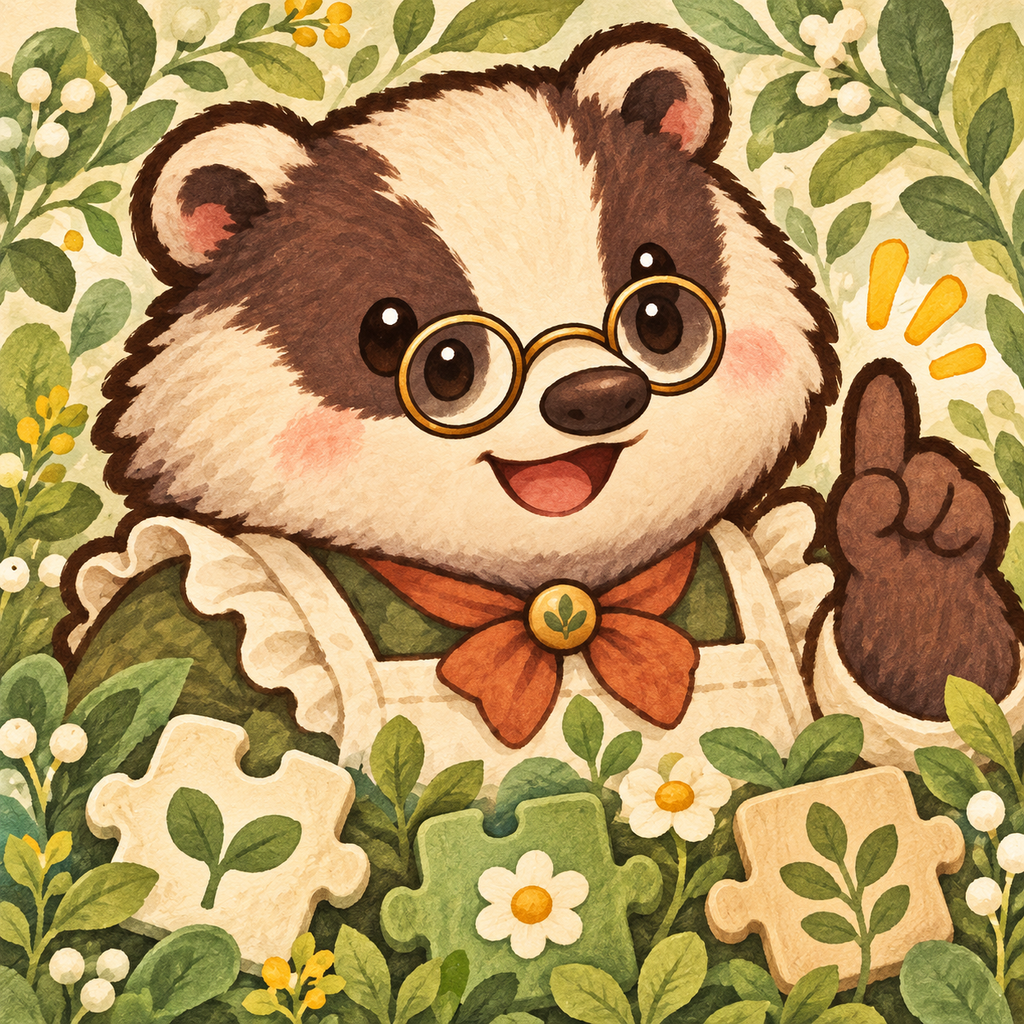
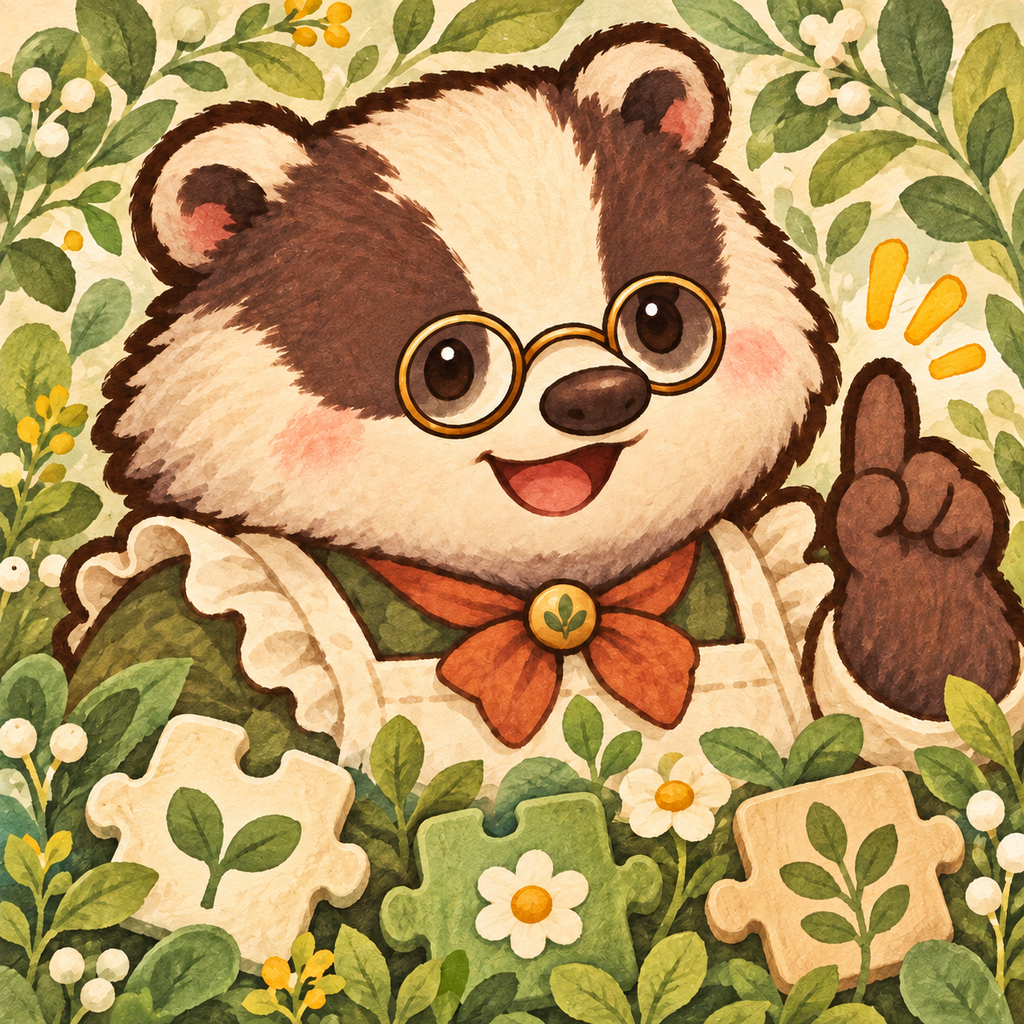
Fix Tuckaway Garden badger eyes and screenshots

diff --git a/tuckaway-garden/index.html b/tuckaway-garden/index.html
@@ -126,7 +126,7 @@ a:focus-visible{outline:3px solid var(--accent);outline-offset:4px}
 <a class="skip" href="#main">Skip to content / 본문으로 / 本文へ / 跳至內容</a>
 <main id="main">
 <p class="site"><a href="https://hootchi.github.io/" rel="noreferrer">← Atto Studio</a></p>
-<header class="hero" id="top"><img class="banner" src="img/banner.png" width="1536" height="1024" alt="숲속 하숙집 뒤뜰의 정원 · The garden behind the forest boarding house"><div class="title"><img src="img/icon.png" width="1024" height="1024" alt=""><h1>쉿! 숲속 정원<span class="en" lang="en">Tuckaway Garden: Nonogram</span></h1></div><p class="pitch">숫자를 따라 그림 하나씩, 작은 정원을 가꿔요. 목숨 제한 없이 즐기는 논리 퍼즐이에요.</p><p class="pitch" lang="en">A little picture, a growing garden. Logic puzzles without lives or energy limits.</p><div class="platform-grid hero-platforms" aria-label="출시 상태 · Release status"><article class="platform-card"><h2>iPhone · iPad</h2><p class="status">iOS 출시 준비 중 · Preparing for release</p><a class="button" href="#download">출시 준비 안내 · Release information</a></article><article class="platform-card"><h2>Android</h2><p class="status testing">출시 대기 · Release pending</p><a class="button secondary" href="#join">테스트 상태 · Test status</a></article></div><nav class="language-nav" aria-label="Language"><a href="#korean" lang="ko">한국어</a><a href="#english" lang="en">English</a><a href="#japanese" lang="ja">日本語</a><a href="#chinese" lang="zh-TW">繁體中文</a></nav></header>
+<header class="hero" id="top"><img class="banner" src="img/banner.png" width="1536" height="1024" alt="숲속 하숙집 뒤뜰의 정원 · The garden behind the forest boarding house"><div class="title"><img src="img/icon.png?v=20261101-two-eyes" width="1024" height="1024" alt=""><h1>쉿! 숲속 정원<span class="en" lang="en">Tuckaway Garden: Nonogram</span></h1></div><p class="pitch">숫자를 따라 그림 하나씩, 작은 정원을 가꿔요. 목숨 제한 없이 즐기는 논리 퍼즐이에요.</p><p class="pitch" lang="en">A little picture, a growing garden. Logic puzzles without lives or energy limits.</p><div class="platform-grid hero-platforms" aria-label="출시 상태 · Release status"><article class="platform-card"><h2>iPhone · iPad</h2><p class="status">iOS 출시 준비 중 · Preparing for release</p><a class="button" href="#download">출시 준비 안내 · Release information</a></article><article class="platform-card"><h2>Android</h2><p class="status testing">출시 대기 · Release pending</p><a class="button secondary" href="#join">테스트 상태 · Test status</a></article></div><nav class="language-nav" aria-label="Language"><a href="#korean" lang="ko">한국어</a><a href="#english" lang="en">English</a><a href="#japanese" lang="ja">日本語</a><a href="#chinese" lang="zh-TW">繁體中文</a></nav></header>
 <section id="korean" lang="ko" class="language-section"><div class="language-heading"><h2>한국어</h2><a href="#top">맨 위로 ↑</a></div><nav class="section-nav" aria-label="페이지 안내"><a href="#about">앱 소개</a><a href="#features">주요 기능</a><a href="#screenshots">스크린샷</a><a href="#download">출시 및 다운로드</a><a href="#join">테스트 상태</a><a href="#contact">문의 및 지원</a></nav>
 <div class="content-block" id="about" data-section="about"><h3>앱 소개</h3><p class="muted">쉿! 숲속 정원: 노노그램</p><p>숫자를 따라 칸을 칠하면 작은 그림이 완성되고, 숲속 하숙집 뒤뜰의 정원이 자라나요. 추측 없이 논리로 풀고, 원하는 속도로 쉬어 가세요.</p></div>
 <div class="content-block" id="features" data-section="features"><h3>주요 기능</h3><ul class="features"><li><strong>목숨·에너지 제한 없이</strong>: 한 판을 천천히 풀거나, 쉬었다가 저장한 퍼즐을 이어 갈 수 있어요.</li>
@@ -134,7 +134,7 @@ a:focus-visible{outline:3px solid var(--accent);outline-offset:4px}
 <li><strong>1,140개의 퍼즐</strong>: 모험 120판, 오늘의 정원 120판, 자유 퍼즐 900판. 5×5·10×10·15×15와 편한·도전 모드를 즐겨요.</li>
 <li><strong>한 칸씩 자라는 정원</strong>: 5개 구역에서 그림을 모으고, 도감의 색을 바꾸며 숲속 하숙생을 맞이해요.</li>
 <li><strong>가입 없이 오프라인으로</strong>: 기본 퍼즐은 오프라인으로 즐겨요. 광고와 선택형 인앱 구매가 있으며 광고·구매·복원에는 인터넷이 필요해요.</li></ul></div>
-<div class="content-block" id="screenshots" data-section="screenshots"><h3>스크린샷</h3><ul class="shots" aria-label="스크린샷"><li><figure><img src="img/home.png" width="360" height="1225" loading="lazy" alt="그림 하나씩 정원을 가꾸는 홈 화면"><figcaption>그림 하나씩 정원을 가꾸는 홈 화면</figcaption></figure></li><li><figure><img src="img/puzzle.png" width="360" height="900" loading="lazy" alt="큰 칸으로 한 줄씩 살펴보는 15×15 퍼즐"><figcaption>큰 칸으로 한 줄씩 살펴보는 15×15 퍼즐</figcaption></figure></li></ul><p class="muted shot-pending">정원·도감의 추가 화면은 준비 중이에요.</p></div>
+<div class="content-block" id="screenshots" data-section="screenshots"><h3>스크린샷</h3><ul class="shots" aria-label="스크린샷"><li><figure><img src="img/home.png?v=20261101-two-eyes" width="1206" height="2622" loading="lazy" alt="그림 하나씩 정원을 가꾸는 홈 화면"><figcaption>그림 하나씩 정원을 가꾸는 홈 화면</figcaption></figure></li><li><figure><img src="img/puzzle.png?v=20261101-two-eyes" width="1206" height="2622" loading="lazy" alt="숫자 힌트를 따라 한 칸씩 완성하는 퍼즐"><figcaption>숫자 힌트를 따라 한 칸씩 완성하는 퍼즐</figcaption></figure></li></ul><p class="muted shot-pending">정원·도감의 추가 화면은 준비 중이에요.</p></div>
 <div class="content-block" id="download" data-section="download"><h3>출시 및 다운로드</h3><div class="platform-grid"><article class="platform-card"><h4>iPhone · iPad</h4><p class="status">iOS 출시 준비 중</p><dl><dt>지원 언어</dt><dd>영어 · 한국어 · 일본어 · 번체 중국어</dd><dt>가격 및 결제</dt><dd>기본 무료 · 광고 및 선택형 인앱 구매</dd></dl><p>아직 다운로드 링크가 제공되지 않아요. 정식 출시 후 이곳에서 안내할게요.</p><p class="muted">출시 후 현지가격은 스토어의 표시와 구매 확인 화면에서 확인해 주세요.</p><p class="muted">iOS는 판매 가능한 전 세계에서 중국 본토를 제외하고 출시할 예정이에요. 실제 이용 가능 여부는 해당 지역 App Store에서 확인해 주세요.</p></article><article class="platform-card"><h4>Android</h4><p class="status testing">출시 대기</p><p>Android용은 준비 중이며 아직 테스트 참여나 설치 링크를 제공하지 않아요.</p><a class="button secondary" href="#join">테스트 상태 확인</a></article></div></div>
 <div class="content-block android-test" id="join" data-section="android-test"><div class="section-heading"><h3>테스트 상태</h3><span class="status testing">출시 대기</span></div><p>현재 공개 테스트를 모집하지 않아요. 참여가 열리면 이곳에 정확한 안내를 추가할게요.</p><aside class="notice"><h4>테스트 안내</h4><p>Android용은 준비 중이며 아직 테스트 참여나 설치 링크를 제공하지 않아요.</p></aside></div>
 <div class="content-block" id="contact" data-section="support"><h3>문의 및 지원</h3><p>사용 방법과 자주 묻는 질문은 고객 지원에서 확인하세요. 오류나 문의는 지원 메일로 보내 주세요.</p><div class="actions"><a class="button secondary" href="support/index.html#korean">고객 지원 및 FAQ</a><a href="mailto:attostudio.support@gmail.com">attostudio.support@gmail.com</a></div></div></section>
@@ -145,7 +145,7 @@ a:focus-visible{outline:3px solid var(--accent);outline-offset:4px}
 <li><strong>1,140 puzzles</strong>: 120 Adventure, 120 Daily and 900 Classic puzzles, with 5×5, 10×10 and 15×15 grids and comfortable or challenge play.</li>
 <li><strong>A garden, one picture at a time</strong>: Collect pictures across five zones, tint your collection and welcome forest visitors.</li>
 <li><strong>Offline, without an account</strong>: Core puzzles work offline. Ads and optional in-app purchases are included; ads, purchases and restoration need internet access.</li></ul></div>
-<div class="content-block" id="screenshots-en" data-section="screenshots"><h3>Screenshots</h3><ul class="shots" aria-label="Screenshots"><li><figure><img src="img/home.png" width="360" height="1225" loading="lazy" alt="A home for your growing picture garden"><figcaption>A home for your growing picture garden</figcaption></figure></li><li><figure><img src="img/puzzle.png" width="360" height="900" loading="lazy" alt="Larger cells for one line of a 15×15 puzzle"><figcaption>Larger cells for one line of a 15×15 puzzle</figcaption></figure></li></ul><p class="muted shot-pending">More garden and collection screens are being prepared.</p></div>
+<div class="content-block" id="screenshots-en" data-section="screenshots"><h3>Screenshots</h3><ul class="shots" aria-label="Screenshots"><li><figure><img src="img/home.png?v=20261101-two-eyes" width="1206" height="2622" loading="lazy" alt="A home for your growing picture garden"><figcaption>A home for your growing picture garden</figcaption></figure></li><li><figure><img src="img/puzzle.png?v=20261101-two-eyes" width="1206" height="2622" loading="lazy" alt="Complete the picture one cell at a time using number clues"><figcaption>Complete the picture one cell at a time using number clues</figcaption></figure></li></ul><p class="muted shot-pending">More garden and collection screens are being prepared.</p></div>
 <div class="content-block" id="download-en" data-section="download"><h3>Release and download</h3><div class="platform-grid"><article class="platform-card"><h4>iPhone · iPad</h4><p class="status">Preparing for iOS release</p><dl><dt>Languages</dt><dd>English · Korean · Japanese · Traditional Chinese</dd><dt>Pricing</dt><dd>Free app · ads and optional in-app purchases</dd></dl><p>A download link is not available yet. Release information will appear here when the app is available.</p><p class="muted">After release, check your store’s localized price and purchase confirmation.</p><p class="muted">iOS is planned for all available countries and regions except mainland China. Check your regional App Store for availability after release.</p></article><article class="platform-card"><h4>Android</h4><p class="status testing">Release pending</p><p>The Android version is being prepared. Test signup and installation links are not available yet.</p><a class="button secondary" href="#join-en">Check test status</a></article></div></div>
 <div class="content-block android-test" id="join-en" data-section="android-test"><div class="section-heading"><h3>Test status</h3><span class="status testing">Release pending</span></div><p>Public testing is not open. Instructions will be added here when participation becomes available.</p><aside class="notice"><h4>Test information</h4><p>The Android version is being prepared. Test signup and installation links are not available yet.</p></aside></div>
 <div class="content-block" id="contact-en" data-section="support"><h3>Contact and support</h3><p>Visit support for instructions and frequently asked questions. Email us about a bug or anything you need help with.</p><div class="actions"><a class="button secondary" href="support/index.html#english">Support and FAQ</a><a href="mailto:attostudio.support@gmail.com">attostudio.support@gmail.com</a></div></div></section>
@@ -156,7 +156,7 @@ a:focus-visible{outline:3px solid var(--accent);outline-offset:4px}
 <li><strong>1,140問のパズル</strong>: 冒険120問、デイリー120問、フリー900問。5×5・10×10・15×15の盤面と、のんびり・チャレンジの遊び方。</li>
 <li><strong>絵を集めて育つおにわ</strong>: 5つのエリアで絵を集め、図鑑の色を変え、森の住人たちを迎えましょう。</li>
 <li><strong>アカウントなしでオフライン</strong>: 基本のパズルはオフライン対応。広告と任意のアプリ内購入があり、広告・購入・復元には接続が必要です。</li></ul></div>
-<div class="content-block" id="screenshots-ja" data-section="screenshots"><h3>スクリーンショット</h3><ul class="shots" aria-label="スクリーンショット"><li><figure><img src="img/home.png" width="360" height="1225" loading="lazy" alt="絵をひとつずつ育てるホーム画面"><figcaption>絵をひとつずつ育てるホーム画面</figcaption></figure></li><li><figure><img src="img/puzzle.png" width="360" height="900" loading="lazy" alt="15×15も、選んだ行や列を大きなマスで"><figcaption>15×15も、選んだ行や列を大きなマスで</figcaption></figure></li></ul><p class="muted shot-pending">おにわや図鑑の追加画面は準備中です。</p></div>
+<div class="content-block" id="screenshots-ja" data-section="screenshots"><h3>スクリーンショット</h3><ul class="shots" aria-label="スクリーンショット"><li><figure><img src="img/home.png?v=20261101-two-eyes" width="1206" height="2622" loading="lazy" alt="絵をひとつずつ育てるホーム画面"><figcaption>絵をひとつずつ育てるホーム画面</figcaption></figure></li><li><figure><img src="img/puzzle.png?v=20261101-two-eyes" width="1206" height="2622" loading="lazy" alt="数字のヒントで、ひとマスずつ絵を完成"><figcaption>数字のヒントで、ひとマスずつ絵を完成</figcaption></figure></li></ul><p class="muted shot-pending">おにわや図鑑の追加画面は準備中です。</p></div>
 <div class="content-block" id="download-ja" data-section="download"><h3>リリース・ダウンロード</h3><div class="platform-grid"><article class="platform-card"><h4>iPhone · iPad</h4><p class="status">iOSリリース準備中</p><dl><dt>対応言語</dt><dd>英語・韓国語・日本語・繁体字中国語</dd><dt>価格・購入</dt><dd>基本無料・広告と任意のアプリ内購入あり</dd></dl><p>ダウンロードリンクはまだありません。公開後にこちらでご案内します。</p><p class="muted">公開後の現地価格は、ストアと購入確認画面でご確認ください。</p><p class="muted">iOSは販売可能な全世界から中国本土を除いて公開予定です。公開後の提供状況は、お住まいの地域のApp Storeでご確認ください。</p></article><article class="platform-card"><h4>Android</h4><p class="status testing">リリース待ち</p><p>Android版は準備中です。テスト参加やインストール用のリンクはまだありません。</p><a class="button secondary" href="#join-ja">テスト状況を見る</a></article></div></div>
 <div class="content-block android-test" id="join-ja" data-section="android-test"><div class="section-heading"><h3>テスト状況</h3><span class="status testing">リリース待ち</span></div><p>公開テストの募集は行っていません。参加できるようになった際に、こちらへご案内を追加します。</p><aside class="notice"><h4>テストのご案内</h4><p>Android版は準備中です。テスト参加やインストール用のリンクはまだありません。</p></aside></div>
 <div class="content-block" id="contact-ja" data-section="support"><h3>お問い合わせ</h3><p>使い方やよくある質問はサポートをご覧ください。不具合やご質問はメールでお知らせください。</p><div class="actions"><a class="button secondary" href="support/index.html#japanese">サポート・よくある質問</a><a href="mailto:attostudio.support@gmail.com">attostudio.support@gmail.com</a></div></div></section>
@@ -167,7 +167,7 @@ a:focus-visible{outline:3px solid var(--accent);outline-offset:4px}
 <li><strong>共1,140道題目</strong>: 冒險120題、每日120題、自由900題，提供5×5、10×10、15×15及輕鬆或挑戰模式。</li>
 <li><strong>一張圖案，一點花園</strong>: 在五個區域收集圖案、替圖鑑換色，再迎接森林房客來訪。</li>
 <li><strong>不必註冊，也能離線玩</strong>: 基本數織支援離線，內含廣告與可選的App內購買；廣告、購買與回復購買需要網路。</li></ul></div>
-<div class="content-block" id="screenshots-zh-TW" data-section="screenshots"><h3>畫面截圖</h3><ul class="shots" aria-label="畫面截圖"><li><figure><img src="img/home.png" width="360" height="1225" loading="lazy" alt="一張張圖案長成花園的主畫面"><figcaption>一張張圖案長成花園的主畫面</figcaption></figure></li><li><figure><img src="img/puzzle.png" width="360" height="900" loading="lazy" alt="以大格子編輯15×15的橫列或直行"><figcaption>以大格子編輯15×15的橫列或直行</figcaption></figure></li></ul><p class="muted shot-pending">更多花園與圖鑑畫面準備中。</p></div>
+<div class="content-block" id="screenshots-zh-TW" data-section="screenshots"><h3>畫面截圖</h3><ul class="shots" aria-label="畫面截圖"><li><figure><img src="img/home.png?v=20261101-two-eyes" width="1206" height="2622" loading="lazy" alt="一張張圖案長成花園的主畫面"><figcaption>一張張圖案長成花園的主畫面</figcaption></figure></li><li><figure><img src="img/puzzle.png?v=20261101-two-eyes" width="1206" height="2622" loading="lazy" alt="依照數字提示，逐格完成圖案"><figcaption>依照數字提示，逐格完成圖案</figcaption></figure></li></ul><p class="muted shot-pending">更多花園與圖鑑畫面準備中。</p></div>
 <div class="content-block" id="download-zh-TW" data-section="download"><h3>發行與下載</h3><div class="platform-grid"><article class="platform-card"><h4>iPhone · iPad</h4><p class="status">iOS發行準備中</p><dl><dt>支援語言</dt><dd>英文・韓文・日文・繁體中文</dd><dt>價格與購買</dt><dd>基本免費・廣告與可選App內購買</dd></dl><p>目前尚無下載連結，正式推出後將在此提供資訊。</p><p class="muted">正式推出後，請確認商店顯示的當地價格與購買確認畫面。</p><p class="muted">iOS預計於可販售的全球國家與地區推出，中國大陸除外。正式推出後，請在所在地區的App Store確認供應情況。</p></article><article class="platform-card"><h4>Android</h4><p class="status testing">等待發行</p><p>Android版準備中，目前尚未提供測試參加或安裝連結。</p><a class="button secondary" href="#join-zh-TW">查看測試狀態</a></article></div></div>
 <div class="content-block android-test" id="join-zh-TW" data-section="android-test"><div class="section-heading"><h3>測試狀態</h3><span class="status testing">等待發行</span></div><p>目前未開放公開測試招募，開放參加時將在此補上正確說明。</p><aside class="notice"><h4>測試說明</h4><p>Android版準備中，目前尚未提供測試參加或安裝連結。</p></aside></div>
 <div class="content-block" id="contact-zh-TW" data-section="support"><h3>聯絡與支援</h3><p>使用方式與常見問題請查看支援頁面，遇到問題也可寄信聯絡我們。</p><div class="actions"><a class="button secondary" href="support/index.html#chinese">支援與常見問題</a><a href="mailto:attostudio.support@gmail.com">attostudio.support@gmail.com</a></div></div></section>
